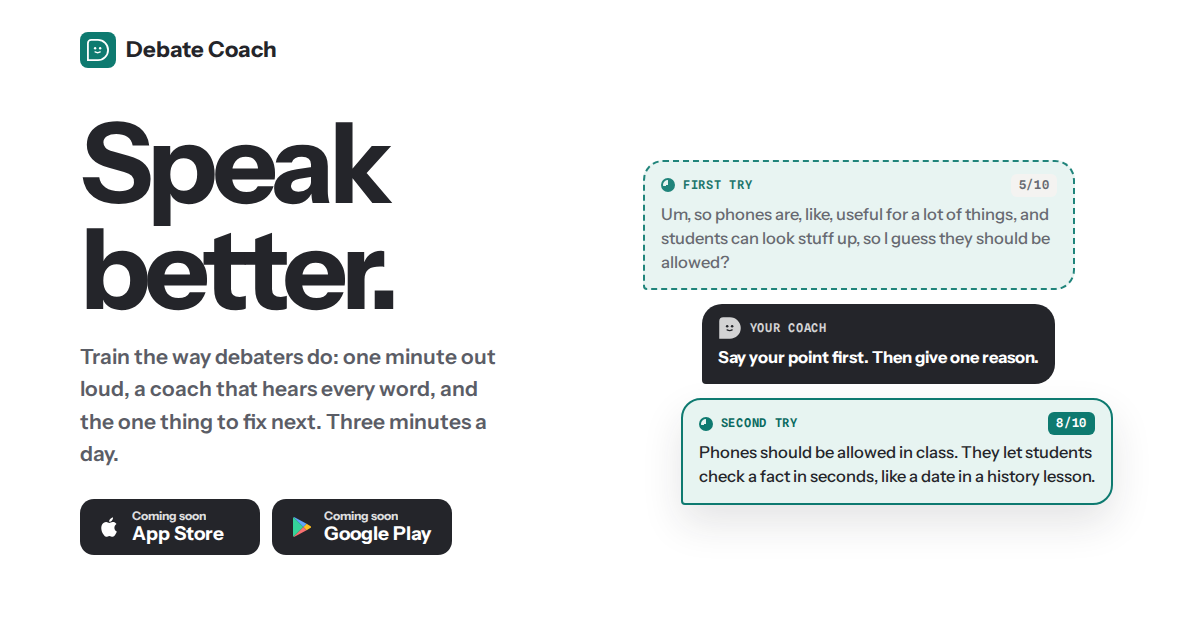
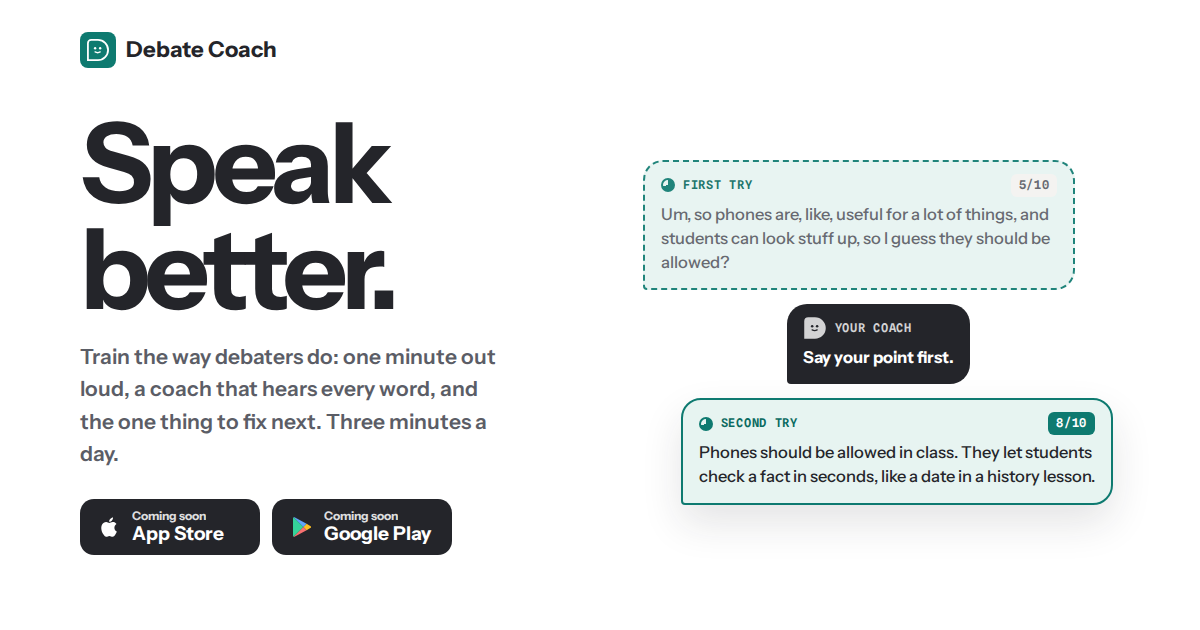
The page says only what the app does: one change from the coach, live talk not Pro-only, the opponent hears you too; privacy lists everything kept
- hero: the coach gives one change (Say your point first), as the page promises
- With your coach: live talk is three free minutes and an hour a month on Pro
  (it also comes in the free start), per the pricing document
- who hears you: no person; the coach, and the opponent in a round
- privacy: menus and reports (not notes); practices, rounds and live talk;
  the coach chat; the name and goal; usage figures (analytics ship in 1.0);
  the install number behind one practice before an account; problem reports;
  Anthropic writes the chat answers

Changed region(s): [[0.5858, 0.4825, 0.8942, 0.6333]]

diff --git a/index.html b/index.html
@@ -442,7 +442,7 @@ footer .links a:hover{color:var(--ink)}
   </div>
   <figure class="change" aria-label="A first try, the coach's one note, and a better second try. The score goes from 5 to 8.">
     <div class="turn you try1"><span class="who"><span class="dial" aria-hidden="true"></span>First try<span class="score">5/10</span></span><p>Um, so phones are, like, useful for a lot of things, and students can look stuff up, so I guess they should be allowed?</p></div>
-    <div class="turn coachb"><span class="who"><svg width="24" height="24" aria-hidden="true" style="--sam:var(--coach-fg);--sam-face:var(--coach-bg)"><use href="#sam-smile"/></svg>Your coach</span><p>Say your point first. Then give one reason.</p></div>
+    <div class="turn coachb"><span class="who"><svg width="24" height="24" aria-hidden="true" style="--sam:var(--coach-fg);--sam-face:var(--coach-bg)"><use href="#sam-smile"/></svg>Your coach</span><p>Say your point first.</p></div>
     <div class="turn you try2"><span class="who"><span class="dial" aria-hidden="true"></span>Second try<span class="score up">8/10</span></span><p>Phones should be allowed in class. They let students check a fact in seconds, like a date in a history lesson.</p></div>
   </figure>
 </div>
@@ -479,7 +479,7 @@ footer .links a:hover{color:var(--ink)}
       </article>
       <article class="way">
         <div class="stage"><div class="call"><svg width="46" height="46" aria-hidden="true" style="--sam:var(--coach-bg);--sam-face:var(--coach-fg)"><use href="#sam-smile"/></svg><div class="modes"><span class="on">Interview me</span><span>Debate me</span><span>Go over my report</span></div></div></div>
-        <h3>With your coach</h3><p>Ask your coach why you got an 8. On Pro, talk it through out loud, and your coach can interview you, debate you or go over your last report.</p>
+        <h3>With your coach</h3><p>Ask your coach why you got an 8, or talk it through out loud: your coach can interview you, debate you or go over your last report. Three minutes of live talk are free; Pro has an hour a month.</p>
       </article>
     </div>
   </div>
@@ -533,7 +533,7 @@ footer .links a:hover{color:var(--ink)}
     <div class="copy">
       <span class="kicker">Every day, in private</span>
       <h2 id="private-h">Practise where nobody's listening.</h2>
-      <p>Three minutes a day builds the habit. Your streak grows each day you practise, and a freeze covers the day you miss. Nobody hears you but your coach, so you can get it wrong as often as you need to.</p>
+      <p>Three minutes a day builds the habit. Your streak grows each day you practise, and a freeze covers the day you miss. No person listens, only your coach, so you can get it wrong as often as you need to.</p>
     </div>
     <div class="art">
       <div class="month" aria-label="October: practised days filled in, a 12-day streak up to yesterday, and one missed day covered by a freeze earned after seven days in a row.">
@@ -573,7 +573,7 @@ footer .links a:hover{color:var(--ink)}
     <div class="faq">
       <details open><summary>I've never debated. Is it for me?</summary><p>Yes. Level 1 is one minute on an everyday question, and your coach explains each new skill when it arrives.</p></details>
       <details><summary>Is AI feedback any good?</summary><p>Every report marks the five things a debate coach listens for and gives you one change to try straight away. Your first five practices are free, so you can judge for yourself.</p></details>
-      <details><summary>Who hears my recordings?</summary><p>Only your coach, which is an AI. Your recordings stay in your account until you delete them.</p></details>
+      <details><summary>Who hears my recordings?</summary><p>No person. Only the app's AI hears them: your coach, and the opponent in a round. They stay in your account until you delete them.</p></details>
       <details><summary>Which languages does it support?</summary><p>You practise in English. Menus and reports can also be shown in Simplified or Traditional Chinese, Korean, Japanese, Vietnamese, Spanish or Portuguese.</p></details>
       <details><summary>How old do I need to be?</summary><p>13 or older.</p></details>
       <details><summary>When can I get it?</summary><p>Soon, on iPhone and Android.</p></details>

diff --git a/src/body.html b/src/body.html
@@ -419,7 +419,7 @@ footer .links a:hover{color:var(--ink)}
   </div>
   <figure class="change" aria-label="A first try, the coach's one note, and a better second try. The score goes from 5 to 8.">
     <div class="turn you try1"><span class="who"><span class="dial" aria-hidden="true"></span>First try<span class="score">5/10</span></span><p>Um, so phones are, like, useful for a lot of things, and students can look stuff up, so I guess they should be allowed?</p></div>
-    <div class="turn coachb"><span class="who"><svg width="24" height="24" aria-hidden="true" style="--sam:var(--coach-fg);--sam-face:var(--coach-bg)"><use href="#sam-smile"/></svg>Your coach</span><p>Say your point first. Then give one reason.</p></div>
+    <div class="turn coachb"><span class="who"><svg width="24" height="24" aria-hidden="true" style="--sam:var(--coach-fg);--sam-face:var(--coach-bg)"><use href="#sam-smile"/></svg>Your coach</span><p>Say your point first.</p></div>
     <div class="turn you try2"><span class="who"><span class="dial" aria-hidden="true"></span>Second try<span class="score up">8/10</span></span><p>Phones should be allowed in class. They let students check a fact in seconds, like a date in a history lesson.</p></div>
   </figure>
 </div>
@@ -456,7 +456,7 @@ footer .links a:hover{color:var(--ink)}
       </article>
       <article class="way">
         <div class="stage"><div class="call"><svg width="46" height="46" aria-hidden="true" style="--sam:var(--coach-bg);--sam-face:var(--coach-fg)"><use href="#sam-smile"/></svg><div class="modes"><span class="on">Interview me</span><span>Debate me</span><span>Go over my report</span></div></div></div>
-        <h3>With your coach</h3><p>Ask your coach why you got an 8. On Pro, talk it through out loud, and your coach can interview you, debate you or go over your last report.</p>
+        <h3>With your coach</h3><p>Ask your coach why you got an 8, or talk it through out loud: your coach can interview you, debate you or go over your last report. Three minutes of live talk are free; Pro has an hour a month.</p>
       </article>
     </div>
   </div>
@@ -510,7 +510,7 @@ footer .links a:hover{color:var(--ink)}
     <div class="copy">
       <span class="kicker">Every day, in private</span>
       <h2 id="private-h">Practise where nobody's listening.</h2>
-      <p>Three minutes a day builds the habit. Your streak grows each day you practise, and a freeze covers the day you miss. Nobody hears you but your coach, so you can get it wrong as often as you need to.</p>
+      <p>Three minutes a day builds the habit. Your streak grows each day you practise, and a freeze covers the day you miss. No person listens, only your coach, so you can get it wrong as often as you need to.</p>
     </div>
     <div class="art">
       <div class="month" aria-label="October: practised days filled in, a 12-day streak up to yesterday, and one missed day covered by a freeze earned after seven days in a row.">
@@ -550,7 +550,7 @@ footer .links a:hover{color:var(--ink)}
     <div class="faq">
       <details open><summary>I've never debated. Is it for me?</summary><p>Yes. Level 1 is one minute on an everyday question, and your coach explains each new skill when it arrives.</p></details>
       <details><summary>Is AI feedback any good?</summary><p>Every report marks the five things a debate coach listens for and gives you one change to try straight away. Your first five practices are free, so you can judge for yourself.</p></details>
-      <details><summary>Who hears my recordings?</summary><p>Only your coach, which is an AI. Your recordings stay in your account until you delete them.</p></details>
+      <details><summary>Who hears my recordings?</summary><p>No person. Only the app's AI hears them: your coach, and the opponent in a round. They stay in your account until you delete them.</p></details>
       <details><summary>Which languages does it support?</summary><p>You practise in English. Menus and reports can also be shown in Simplified or Traditional Chinese, Korean, Japanese, Vietnamese, Spanish or Portuguese.</p></details>
       <details><summary>How old do I need to be?</summary><p>13 or older.</p></details>
       <details><summary>When can I get it?</summary><p>Soon, on iPhone and Android.</p></details>

diff --git a/privacy.html b/privacy.html
@@ -36,14 +36,15 @@ a{color:var(--go-text);font-weight:600}
 
 <h2>What the app keeps</h2>
 <ul>
-<li><b>Your account:</b> an email address (or your Apple or Google sign-in), a password if you choose one, and your date of birth, which we ask to check you are 13 or older. You can use the app for a first practice before making an account.</li>
-<li><b>Your practices:</b> each round is recorded so your coach can hear it. The app keeps the recording, the transcript of what was said, and the report your coach wrote. They are in your account and nobody else sees them.</li>
-<li><b>Your settings:</b> the language you chose for menus and notes, and the time of your daily reminder, with a device token so the reminder reaches your phone.</li>
-<li><b>The usual technical facts:</b> the time a request was made and the kind of phone, so we can fix faults.</li>
+<li><b>Your account:</b> an email address (or your Apple or Google sign-in), a password if you choose one, your date of birth, which we ask to check you are 13 or older, the name your coach calls you if you give one, and what you told the app you want to get better at. You can use the app for a first practice before making an account.</li>
+<li><b>Your practices:</b> each practice, round and live talk is recorded so your coach can hear it. The app keeps the recording, the transcript of what was said, the report your coach wrote, and your messages to your coach in the chat. They are in your account and no person sees them, unless you send us a problem report about one, which we open only to fix the problem.</li>
+<li><b>Your settings:</b> the language you chose for menus and reports, and the time of your daily reminder, with a device token so the reminder reaches your phone.</li>
+<li><b>How the app is used:</b> which screens are opened and when practices start and finish, so we can see what helps people practise. It never includes your recordings or what you said.</li>
+<li><b>The usual technical facts:</b> the time a request was made, the kind of phone and a number for this install of the app, so we can fix faults and offer one practice before an account on each phone.</li>
 </ul>
 
 <h2>Where it goes</h2>
-<p>Your voice in a round is carried by LiveKit, written down by a speech-to-text service (AssemblyAI), answered by the AI opponent and coach (OpenAI), and your report is written by an AI (Anthropic). Each of these receives only what it needs for that round, and none of them keeps your recordings to train their models. Your account, recordings and reports are stored with Supabase. Nothing is sold, and nothing is shared with advertisers.</p>
+<p>Your voice in a practice is carried by LiveKit, written down by a speech-to-text service (AssemblyAI), and answered by the AI opponent and coach (OpenAI); your report and the coach's chat answers are written by an AI (Anthropic). Each of these receives only what it needs for that practice, and none of them keeps your recordings to train their models. Your account, recordings and reports are stored with Supabase. Nothing is sold, and nothing is shared with advertisers.</p>
 
 <h2>How long it stays</h2>
 <p>Your recordings and reports stay in your account until you delete them or delete your account. A recording is kept so you can replay it and so your coach's report has something to point to.</p>
